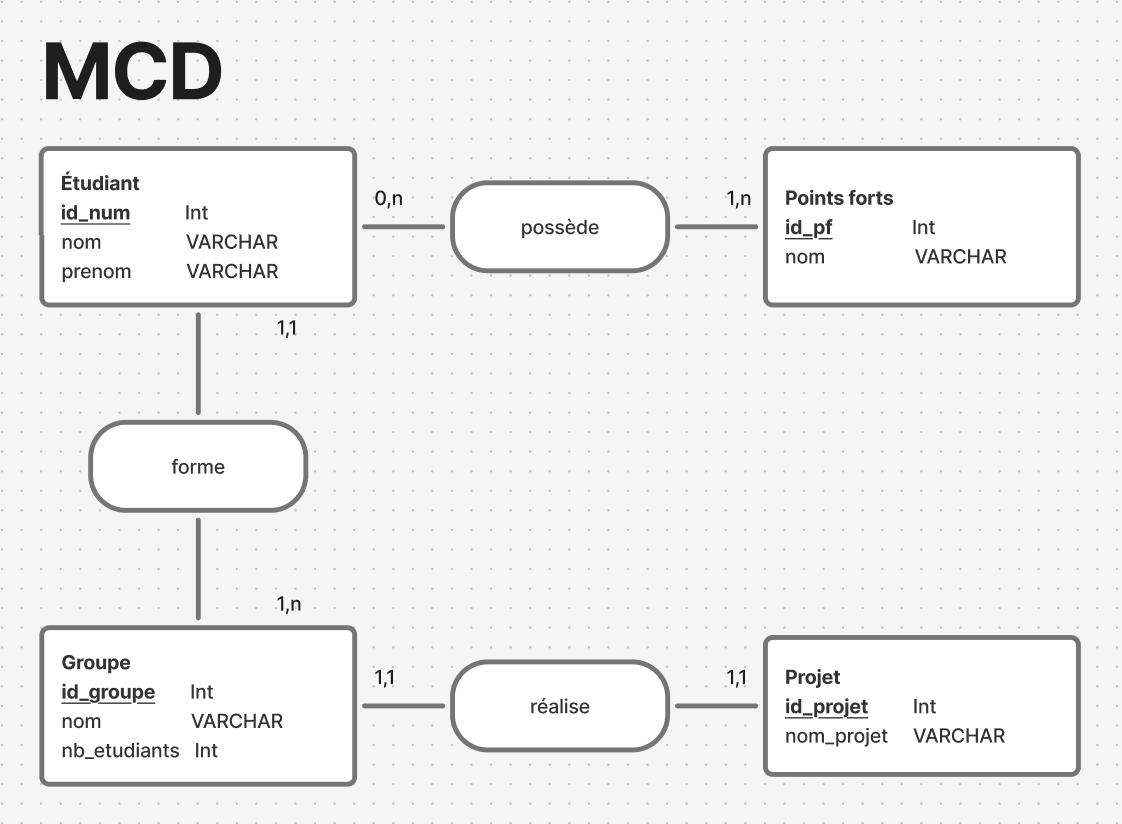
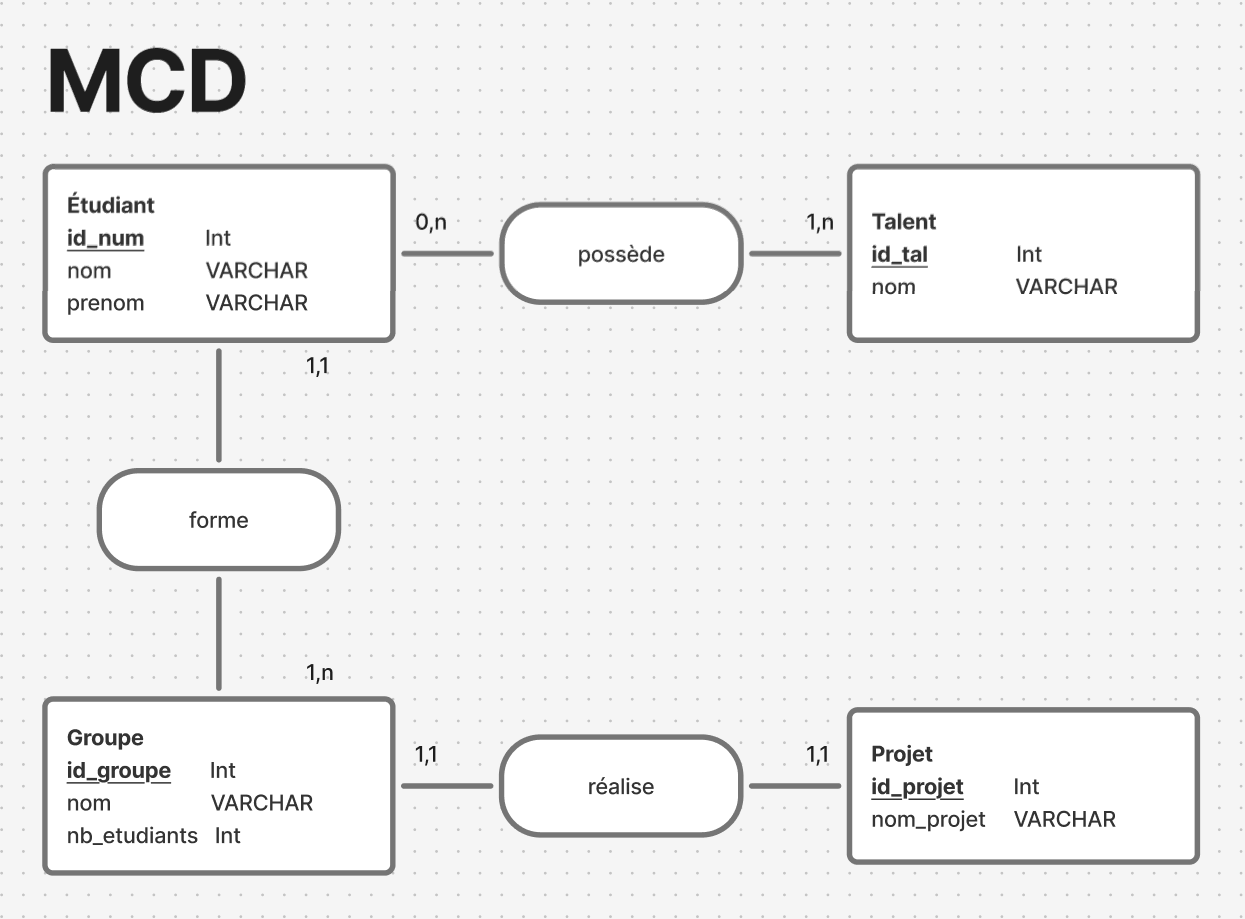
maj MCD + schéma relationnel

diff --git a/README.md b/README.md
@@ -24,5 +24,5 @@ Ce système vise à faciliter la gestion de projets collaboratifs dans un cadre 
 
 ---
 ## Schéma Modèle Conceptuel de la Base de Données
-![Schéma MCD (Modèle Conceptuel de Données)](doc/MCD.png)
-![Schéma relationnel](doc/schema-relationnel.png)
+![Schéma MCD (Modèle Conceptuel de Données)](/doc/MCD.png)
+![Schéma relationnel](/doc/schema-relationnel.png)
